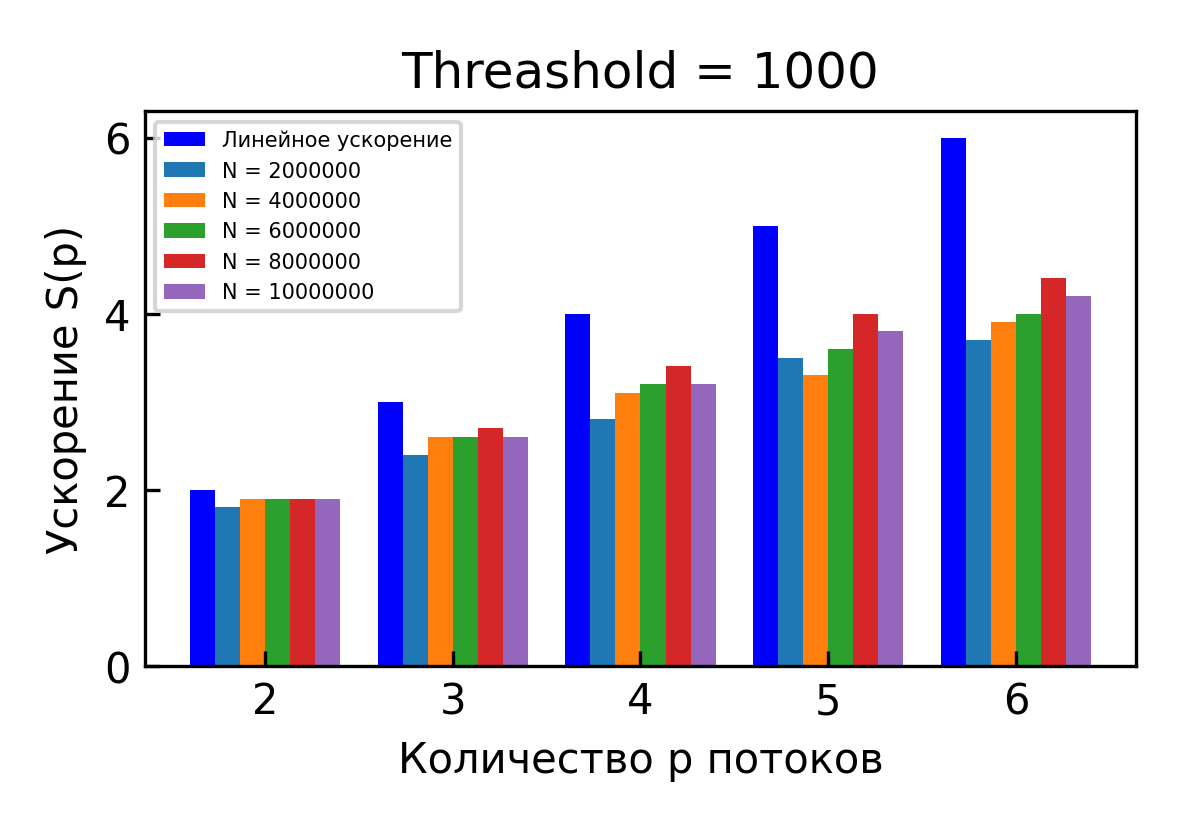
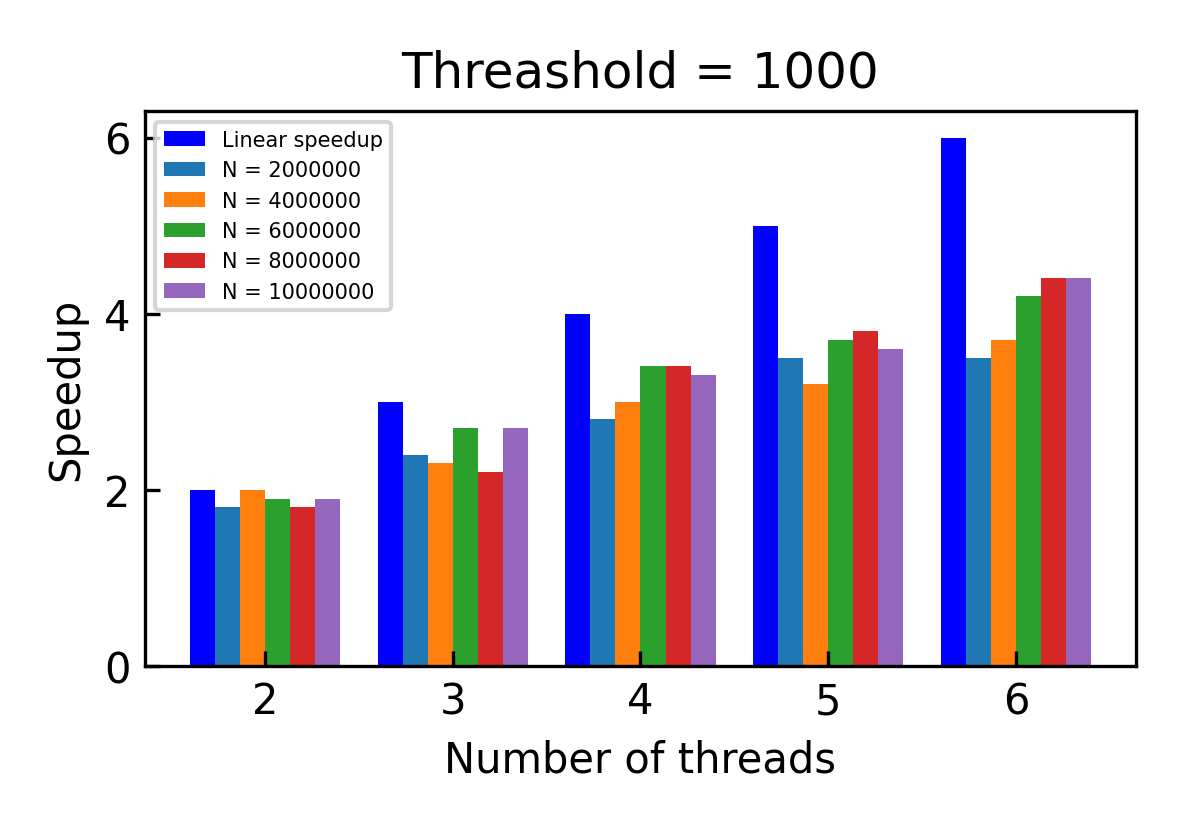
4sem: PCT: Add 5 lab

diff --git a/4sem/PCT/quicksort/chart.py b/4sem/PCT/quicksort/chart.py
@@ -20,7 +20,7 @@ def draw(filenames, labels, title, filename):
     fig = plt.figure(figsize=(10*cm, 7*cm))
     ax = fig.add_subplot(111)
     ax.set_title(title)
-    ax.set(xlabel="Количество p потоков", ylabel="Ускорение S(p)")
+    ax.set(xlabel="Number of threads", ylabel="Speedup")
     ax.label_outer()
     
     ax.xaxis.set_tick_params(direction='in', which='both')
@@ -46,7 +46,7 @@ def draw(filenames, labels, title, filename):
     p_offset = -wdh * count_versions * 0.5
     while thrd_cur <= thrd_end:
         if first_iteration:
-            lbl = "Линейное ускорение"
+            lbl = "Linear speedup"
             first_iteration = False
         else:
             lbl = ""

diff --git a/4sem/PCT/quicksort/parallel.cpp b/4sem/PCT/quicksort/parallel.cpp
@@ -41,6 +41,7 @@ void quicksort_tasks(int* v, int low, int high)
             quicksort_tasks(v, low, j);
         }
         quicksort_tasks(v, i, high);
+        
     }
 }
 
